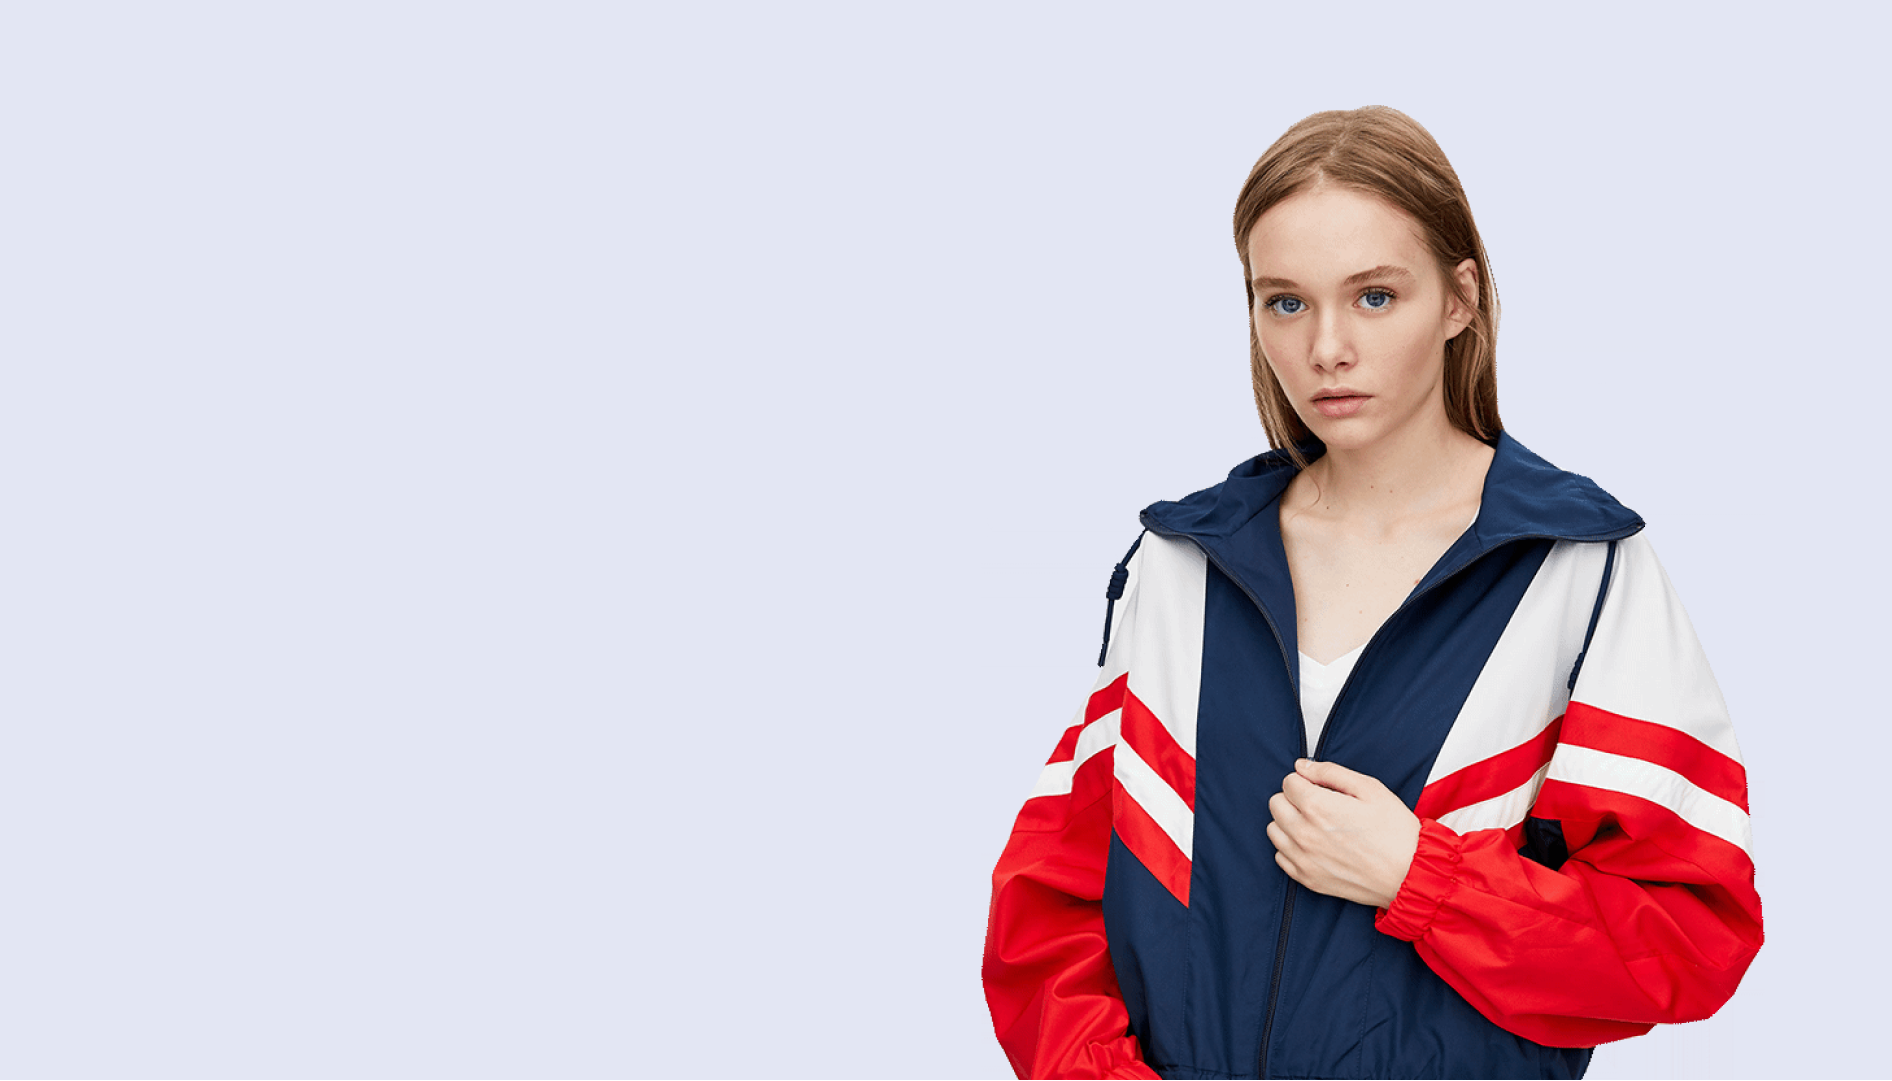
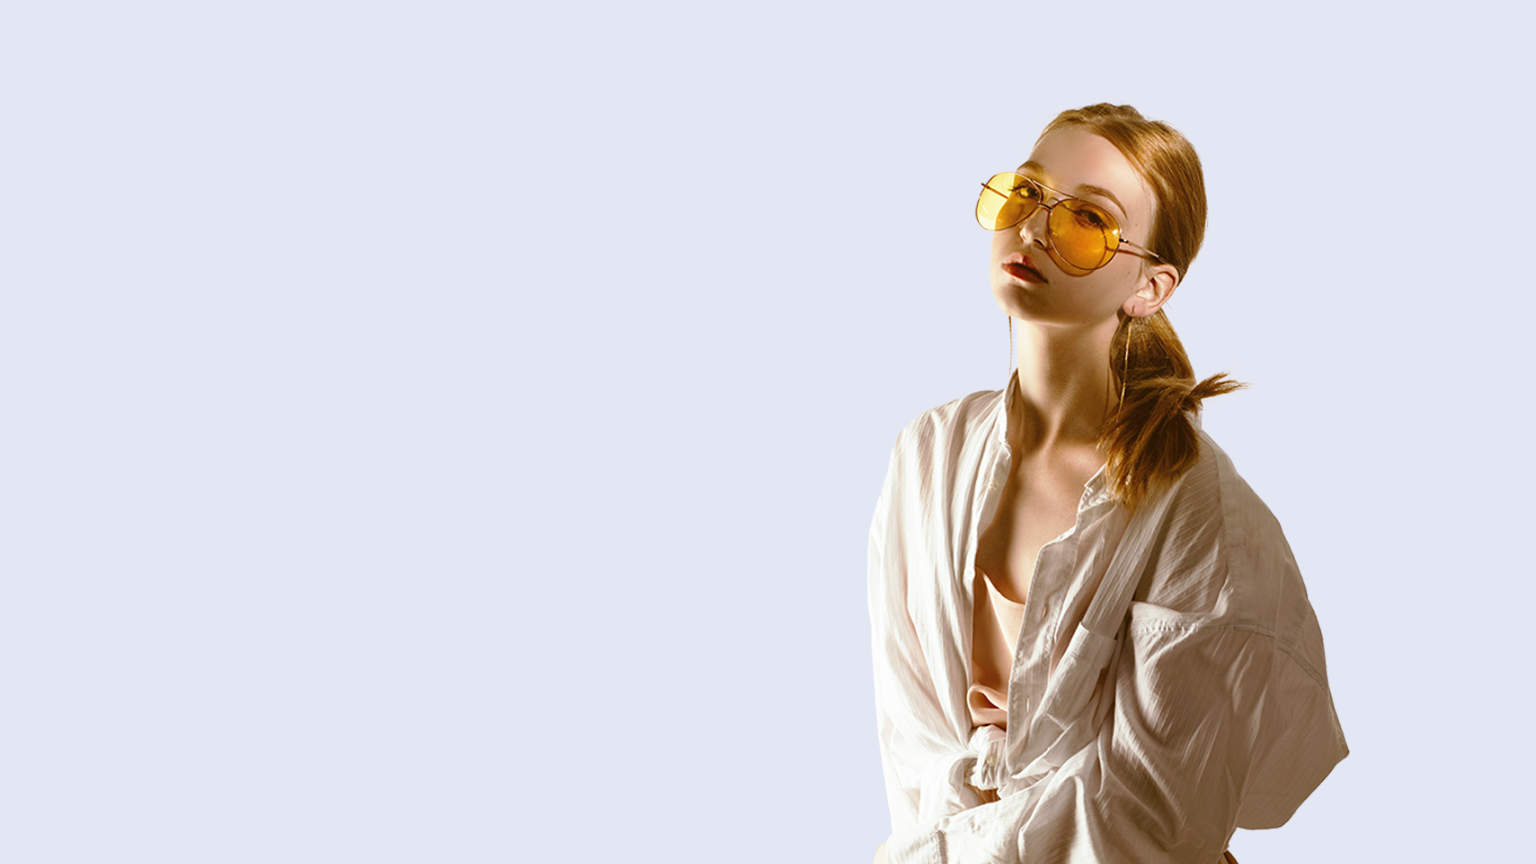
responsive home page

Changed region(s): [[0.5, 0.0938, 0.9375, 1.0]]

diff --git a/style.css b/style.css
@@ -103,7 +103,7 @@ body {
 }
 #navbar li a{
   text-decoration: none;
-  font-size:600;
+  font-weight:600;
   color: #1a1a1a;
   transition: 0.3s ease;
 }
@@ -124,12 +124,24 @@ body {
   left:20px
 }
 
+#mobile{
+  display: none;
+}
+#close{
+   position: absolute;
+   top:40px;
+   right: 50px;
+   font-weight:600;
+   color: #1a1a1a;
+   font-size: 24px;
+   display: none;
+}
 #hero{
   background-image: url(img/hero4.png);
   height: 90vh;
   width: 100%;
   background-size: cover;
-  background-position:top 25% right 0;
+
   padding: 0 80px;
   display: flex;
   flex-direction: column;
@@ -490,4 +502,149 @@ footer a:hover{
 footer .copywrite {
   width: 100%;
   text-align: center;
+}
+
+/* media queries */
+
+@media(max-width:830px)
+{
+      .section-p1{
+        padding: 40px;
+      }
+      #navbar {
+        display: flex;
+        flex-direction: column;
+        align-items: flex-start;
+        justify-content: flex-start;
+        position: fixed;
+        top: 0;
+        right: -300px;
+        width: 300px;
+        height: 100vh;
+        background-color: #E3E6F3;
+        box-shadow: 0 40px 60px rgba(0,0,0,0.1);
+        padding: 80px 0 0 10px;
+        transition: 0.3s ease;
+     }
+     #close{
+      display: initial;
+     }
+     #navbar.active{
+      right: 0px;
+     }
+     #navbar li{
+      margin: 25px 0px;
+     }
+     #shopbag{
+      display: none;
+     }
+     #mobile{
+      display: flex;
+      align-items: center;
+      justify-content: space-between;
+     }
+     #mobile i{
+      font-size: 24px;
+       font-weight:600;
+       color: #1a1a1a;
+       padding-left: 20px;
+     }
+
+     #hero {
+      height: 70vh;
+      padding: 0 88px;
+      background-position: top 30% right 30%;
+  }
+
+  #feture {
+    justify-content: center;
+  }
+ #feture .fe-box {
+  margin: 15px;
+}
+
+#product1 .pro-container {
+  justify-content: center;
+}
+#product1 .pro {
+  margin: 15px;
+}
+
+#banner {
+  height: 20vh;
+}
+#sm-banner .banner-box{
+ min-width: 100%;
+ height: 30vh;
+}
+
+#banner3 {
+  padding: 0 40px;
+}
+#banner3 .banner-box {
+  width: 28%;
+  background-position: top 10% right 10%;
+  background-size: cover;
+}
+#newsletter {
+  justify-content: center;
+}
+#newsletter .form {
+  width: 70%;
+}
+}
+
+
+@media(max-width:477px)
+{
+    .section-p1{
+       padding: 20px;
+    }
+     #header{
+      padding: 10px 30px;
+     }
+     
+     #hero{
+      padding: 0 20px;
+      background-position: 55%;
+     }
+     h1{
+      font-size: 38px;
+     }
+     h2{
+      font-size: 32px;
+     }
+     #feture{
+      justify-content: space-between;
+     }
+     #feture .fe-box{
+      width: 155px;
+      margin: 0 0 15px 0;
+     }
+
+     #product1 .pro{
+      width: 100%;
+     }
+
+     #banner{
+        height: 40vh;
+     }
+     #banner h2{
+      padding-left: 40px;
+     }
+    
+     #banner3{
+      padding: 0 20px;
+     }
+     #banner3 .banner-box
+     {
+      width: 100%;
+     }
+     
+     #newsletter .form{
+      width: 100%;
+     }
+     #newsletter input {
+      min-width: 50px;
+  }
 }

diff --git a/index.html b/index.html
@@ -12,7 +12,7 @@
     </head>
     <body>
        <section id="header">
-         <a href="#"><img src="img/logo.png" alt=""></a>
+         <a href="#"><img height="50px" width="100%" src="img/logo.png" alt=""></a>
          <div>
             <ul id="navbar">
                 <li><a class="active" href="index.html">Home</a></li>
@@ -20,10 +20,14 @@
                 <li><a href="blog.html">Blog</a></li>
                 <li><a href="about.html">About</a></li>
                 <li><a href="contact.html">contact</a></li>
-                <li><a href="cart.html"><i class="fa-solid fa-bag-shopping"></i></a></li>
-
+                <li id="shopbag"><a href="cart.html"><i class="fa-solid fa-bag-shopping"></i></a></li>
+                <i class="fa-solid fa-xmark button" id="close"></i>
             </ul>
          </div>
+         <div id="mobile">
+            <a href="cart.html"><i class="fa-solid fa-bag-shopping"></i></a>
+            <i id="bar" class="fas fa-outdent"></i>
+        </div>
        </section>
        <section id="hero">
         <h4>Trade-in-offer</h4>
@@ -376,7 +380,7 @@
 
      <footer class="section-p1">
         <div class="col">
-            <img src="img/logo.png" alt="" class="logo">
+            <img height="100px" width="200px" src="img/logo.png" alt="">
             <h4>contact</h4>
             <p><strong>Address:</strong> melaghat road, Khatima ,Uttrakhand, India</p>
             <p><strong>Phone:</strong> +91 85340 95668</p>

diff --git a/script.js b/script.js
@@ -1,1 +1,13 @@
 // Script for navigation bar
+const menue = document.querySelector("#bar");
+const navbar = document.querySelector("#navbar");
+const close = document.querySelector("#close");
+menue.addEventListener("click",function()
+{
+    navbar.classList.add('active');
+})
+
+close.addEventListener("click",function()
+{
+    navbar.classList.remove("active");
+})
